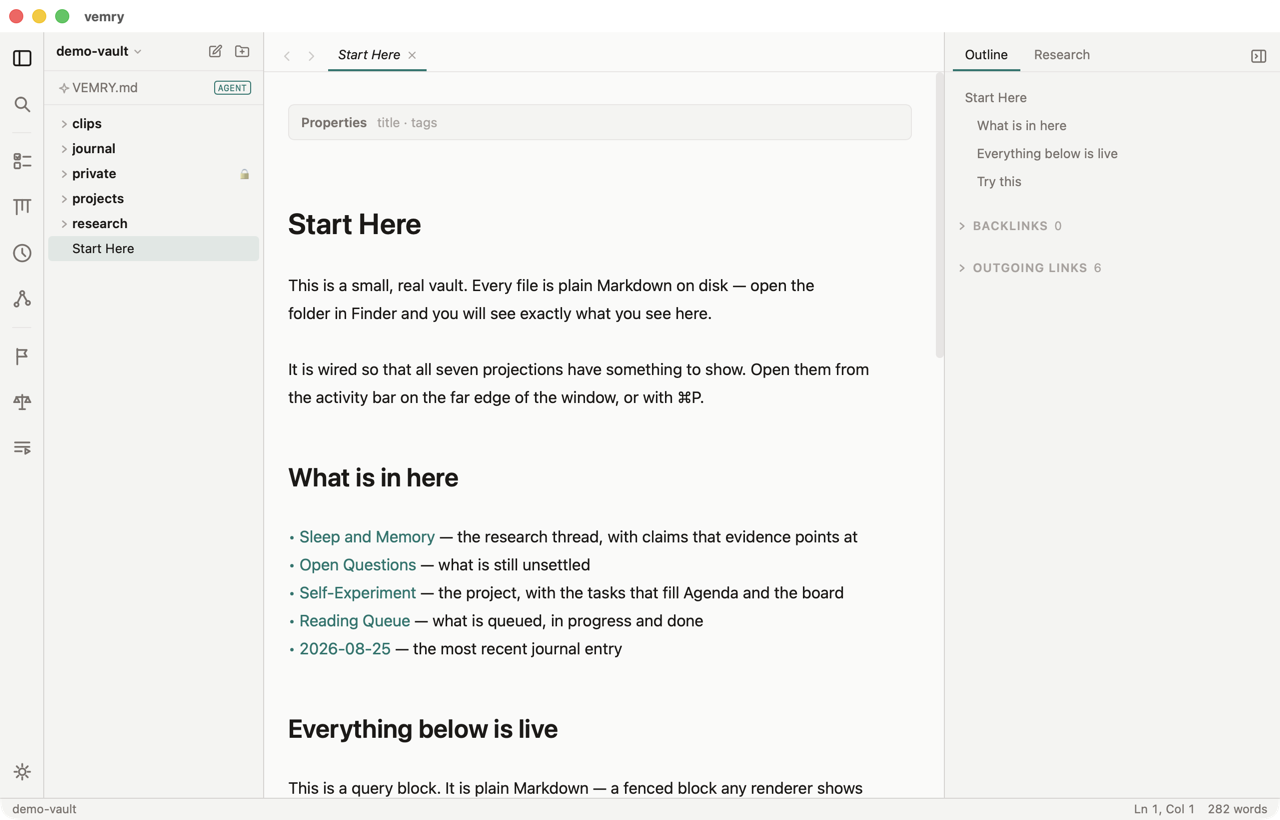
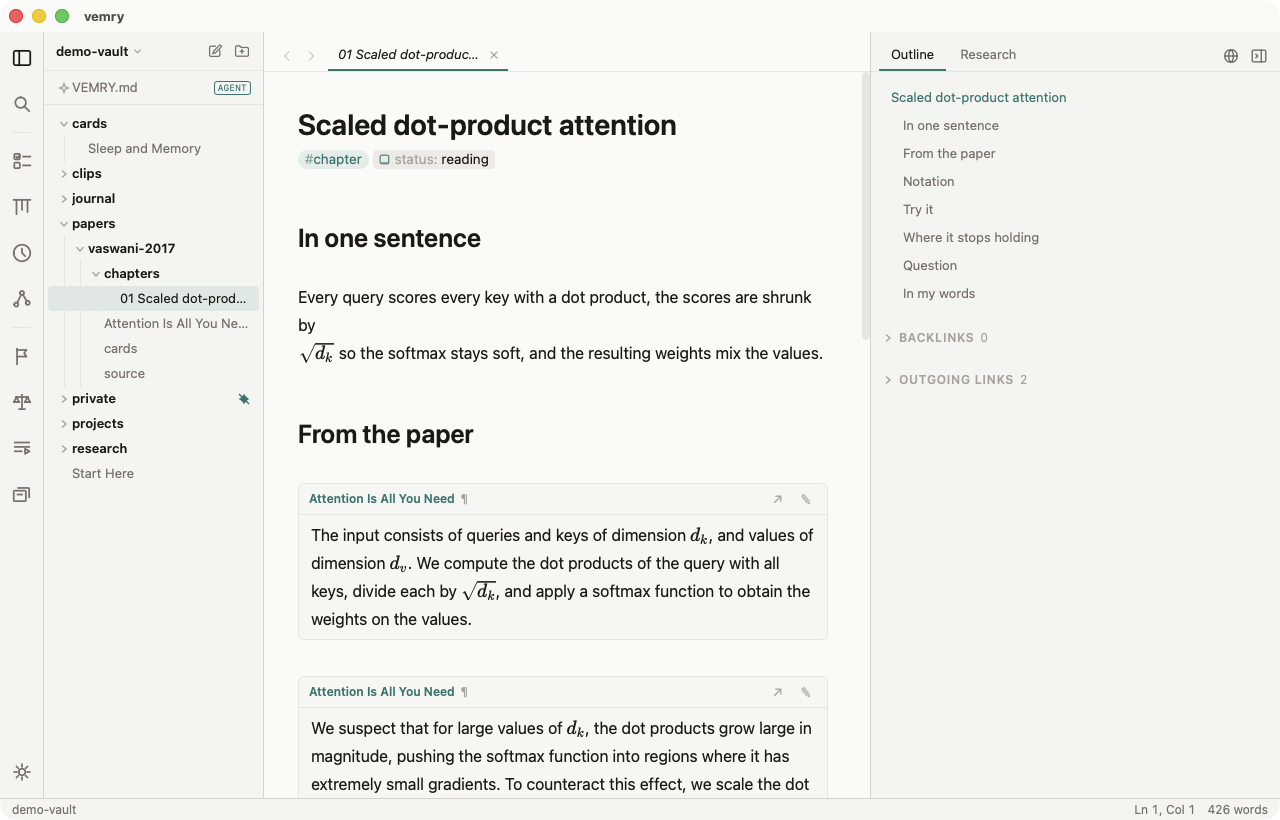
docs: the README hero shows a paper under study
The first screenshot a reader sees is now a chapter of the example vault's
paper with the source embedded block by block, in place of the hub note with
the file tree and outline — the picture says what the first paragraph says.

Claude-Session: https://claude.ai/code/session_01WJUmDatZfcDQVdsedSP8df

diff --git a/README.md b/README.md
@@ -14,7 +14,7 @@ a diff before it writes, and never sees what you mark private.
 
 [English](README.md) · [简体中文](README.zh-CN.md)
 
-![vemry — editor, file tree and outline](docs/assets/hero.png)
+![vemry — a chapter of a paper under study, with the source embedded block by block](docs/assets/hero.png)
 
 ---
 

diff --git a/README.zh-CN.md b/README.zh-CN.md
@@ -13,7 +13,7 @@
 
 [English](README.md) · [简体中文](README.zh-CN.md)
 
-![vemry — 编辑器、文件树与大纲](docs/assets/hero.png)
+![vemry — 研读中的一章论文，原文按块嵌入](docs/assets/hero.png)
 
 ---
 
